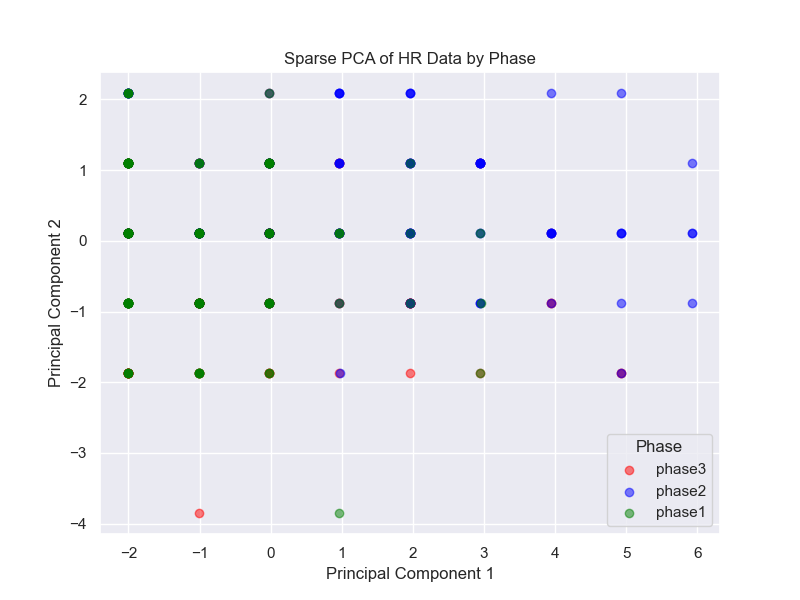
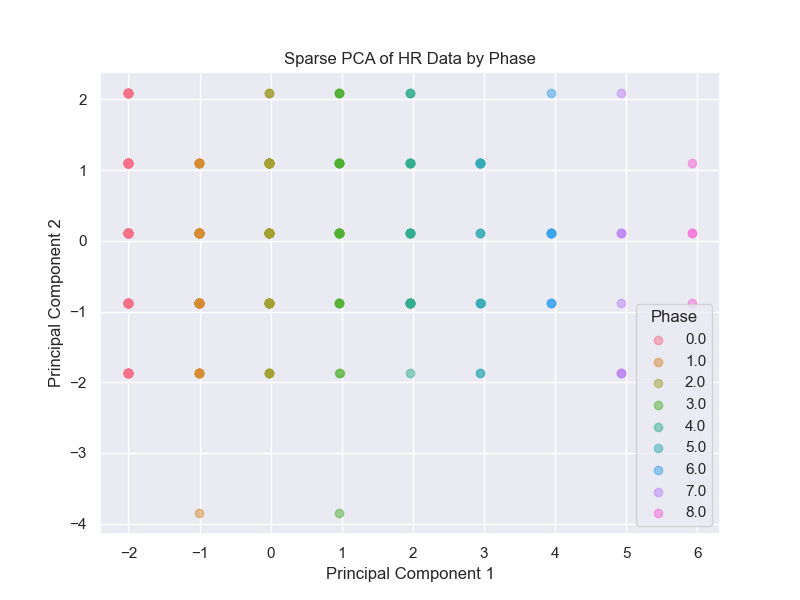
:chart_with_upwards_trend:added pca plots of determined and frustrated

diff --git a/src/case2/pca.py b/src/case2/pca.py
@@ -172,41 +172,49 @@ def plot_pca(X: np.ndarray, pca: PCA) -> None:
     # Transform the data
     X_pca = pca.transform(X)
 
-    # Extract 'Phase' from the index.
-    phases = X.index.get_level_values("Phase")
-    unique_phases = phases.unique()
-    colors = ["red", "blue", "green"]  # Define colors for each phase
+    # Extract unique values
+    phases = np.sort(X.index.get_level_values("Phase").unique())
+    frustrations = np.sort(X["Frustrated"].unique())
+    determined = np.sort(X["determined"].unique())
 
-    # Create a color mapping for each phase
-    color_mapping = {
-        phase: colors[i % len(colors)] for i, phase in enumerate(unique_phases)
-    }
+    titles = {"Phase": phases, "Frustrated": frustrations, "determined": determined}
 
-    plt.figure(figsize=(8, 6))
-    for phase in unique_phases:
-        mask = phases == phase
-        plt.scatter(
-            X_pca[mask, 0],
-            X_pca[mask, 1],
-            label=phase,
-            alpha=0.5,
-            color=color_mapping[phase],
-        )
+    for title, values in titles.items():
 
-    plt.xlabel("Principal Component 1")
-    plt.ylabel("Principal Component 2")
-    plt.legend(title="Phase")
+        print(f"{title}: {values}")
 
-    if isinstance(pca, SparsePCA):
-        plt.title("Sparse PCA of HR Data by Phase")
-        plt.savefig(
-            FIGURE_DIR / "sparse_pca" /"sparse_pca_plot.png",
-        )
-    else:
-        plt.title("PCA of HR Data by Phase")
-        plt.savefig(
-            FIGURE_DIR / "pca" /"pca_plot.png",
-        )
+        colors = sns.color_palette("deep", len(values))
+        color_mapping = {
+            value: colors[i % len(colors)] for i, value in enumerate(values)}
+        
+        plt.figure(figsize=(8, 6))
+        for unique in values:
+            try: 
+                mask = X[title] == unique
+
+            except KeyError:
+                # If the title is not in the DataFrame, use index level
+                mask = X.index.get_level_values("Phase") == unique
+            
+            plt.scatter(
+                X_pca[mask, 0],
+                X_pca[mask, 1],
+                label=unique,
+                alpha=0.5,
+                color=color_mapping[unique],)
+        plt.xlabel("Principal Component 1")
+        plt.ylabel("Principal Component 2")
+        plt.legend(title=title)
+        if isinstance(pca, SparsePCA):
+            plt.title(f"Sparse PCA - {title}")
+            plt.savefig(
+                FIGURE_DIR / "sparse_pca" / f"sparse_pca_{title}.png",
+            )
+        else:
+            plt.title(f"PCA - {title}")
+            plt.savefig(
+                FIGURE_DIR / "pca" / f"pca_{title}.png",
+            )
 
 
 def plot_features_against_loadings(data: np.ndarray, features: list, pca: PCA) -> None:
